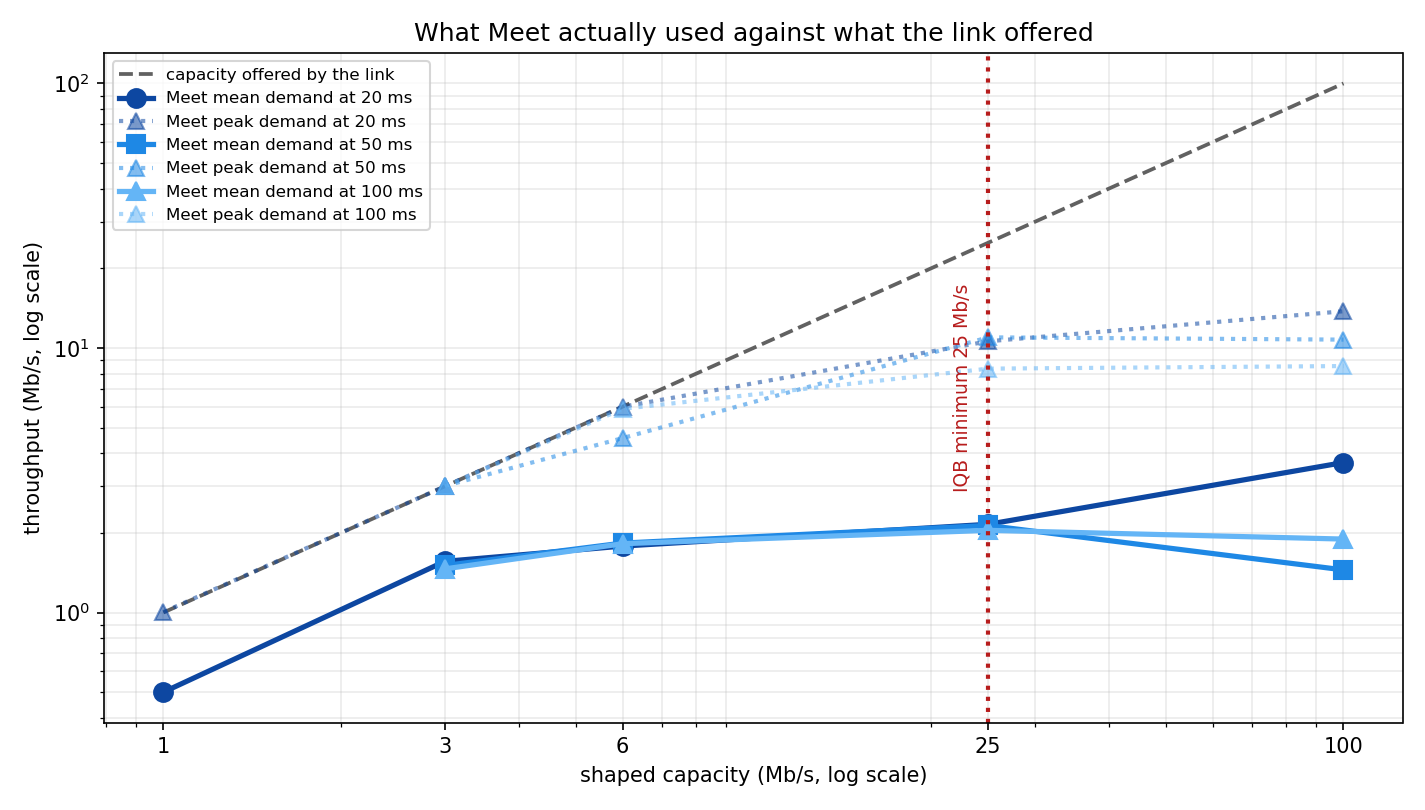
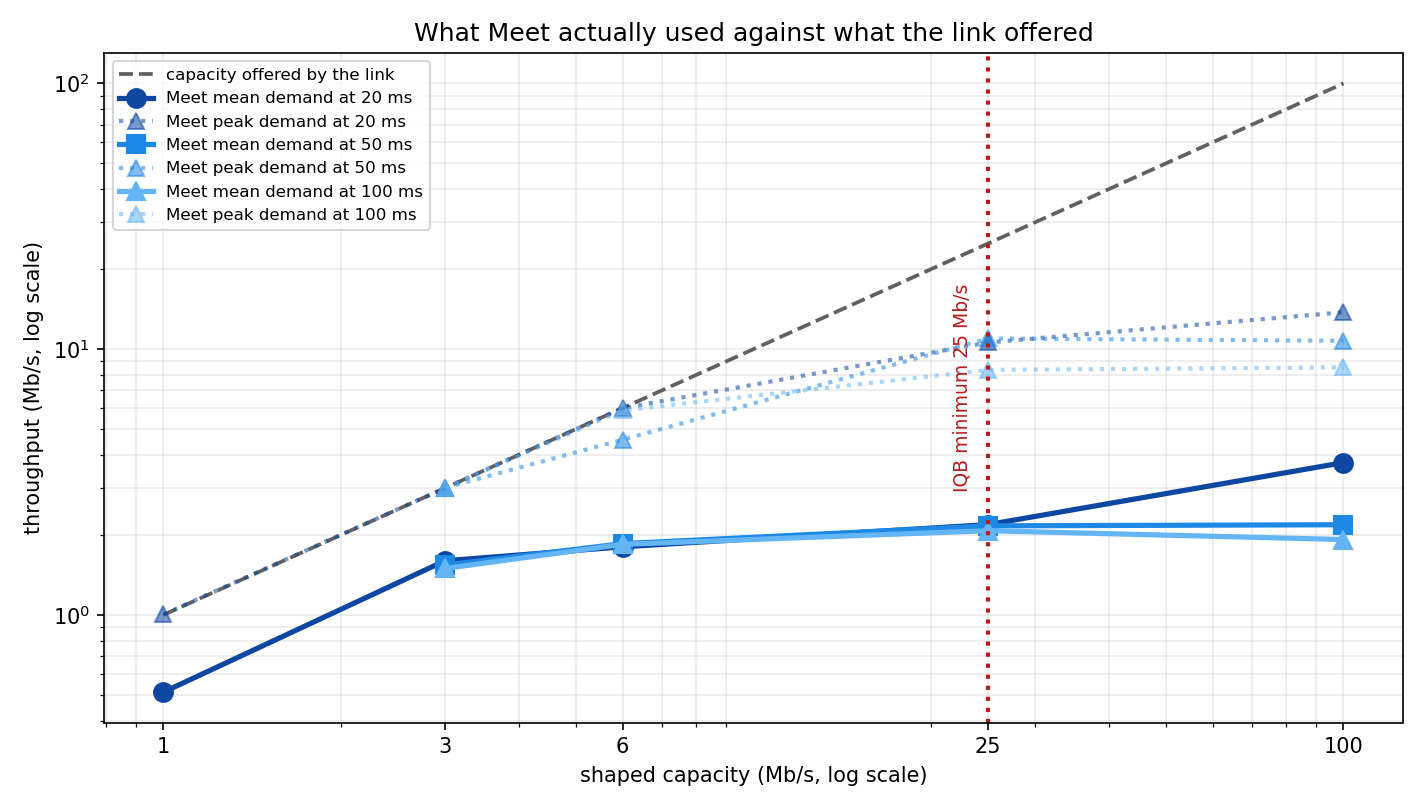
cpuc: republish demand over the sustained window, with infra_share_pct
Demand was computed over the whole capture window, which starts before the
page does, so the app's bytes were divided by time in which the app did not
exist. It is now the app's own bytes over the window in which the app was
actually moving data -- first app byte to last -- which drops the page-load
lead-in and any trailing silence while keeping the app's own mid-session
behaviour. A streaming player filling a buffer and going quiet IS its demand
and must not be edited out. Startup is untouched and still measured from page
load.

The figures are also re-derived with the GGC media attribution fixed (#25),
which is where the large corrections come from. Run selection is deliberately
unchanged: every key keeps the run the sidecar already named, so these rows
still describe the same runs and only the computation moved.

Streaming, worst corrections (old -> new Mb/s):

  25 Mb/s @ 100 ms   0.514 -> 2.405   4.68x
  12.5    @ 100 ms   0.494 -> 2.319   4.69x
  6.25    @ 100 ms   0.461 -> 2.225   4.83x
  3       @ 100 ms   0.391 -> 1.490   3.81x
  1.5     @  50 ms   0.350 -> 1.159   3.31x

Rows that were not GGC-affected move 1-3%, which is the window change alone.
Meet barely moves (1-3%, one row 1.51x), consistent with its rr5 traffic
sitting below the 2 MB media floor.

Every published figure now carries infra_share_pct: how much of the shaped
link was NOT the app's over the same window. Without it a 2.3 Mb/s figure
[…]

diff --git a/experiments/cpuc/report_meet.py b/experiments/cpuc/report_meet.py
@@ -253,6 +253,12 @@ def build_table(rows):
         if t["app_valid"]:
             t["meet_demand_mbps"] = d.get("meet_avg_mbps")
             t["meet_peak_mbps"] = d.get("meet_peak_mbps")
+            # How much of the shaped link was NOT Meet's, over the same
+            # window. This is the whole asset-cost finding in one column: the
+            # page's own assets are a near-constant cost per run, so the share
+            # they take grows as the link shrinks, and at 0.5-1 Mb/s it rivals
+            # the call itself. A demand figure without it is not interpretable.
+            t["infra_share_pct"] = d.get("infra_share_pct")
         else:
             # A run that never established remote media still moved some
             # bytes while it tried to join. Reporting those bytes as "what
@@ -261,6 +267,7 @@ def build_table(rows):
             # the QoE is not collected, neither is the demand.
             t["meet_demand_mbps"] = None
             t["meet_peak_mbps"] = None
+            t["infra_share_pct"] = d.get("infra_share_pct")
             # "Not collected" and "we ran it and no video ever arrived" are
             # different claims, and only the second one is evidence about the
             # link. A run that reached NoRemoteInboundMedia on every attempt
@@ -327,8 +334,9 @@ def latency_caption(table) -> str:
 def markdown_table(t):
     hdr = (
         "| capacity (sym) | RTT set | RTT measured | NDT down | NDT up "
-        "| IQB verdict | resolution | fps | freezes | Meet demand | QoE |\n"
-        "|---|---|---|---|---|---|---|---|---|---|---|\n"
+        "| IQB verdict | resolution | fps | freezes | Meet demand | infra share "
+        "| QoE |\n"
+        "|---|---|---|---|---|---|---|---|---|---|---|---|\n"
     )
     lines = []
     for r in t:
@@ -336,7 +344,7 @@ def markdown_table(t):
         sus = " ⚠" if r["suspect"] else ""
         lines.append(
             "| {c:g} Mb/s{tag} | {rset} | {rmeas} | {dl} | {ul} | {v} ({by}) "
-            "| {res} | {fps} | {fz} | {dem} | {q}{sus} |".format(
+            "| {res} | {fps} | {fz} | {dem} | {inf} | {q}{sus} |".format(
                 c=r["rate_mbps_symmetric"],
                 tag=tag,
                 rset=(
@@ -367,6 +375,11 @@ def markdown_table(t):
                 dem=(
                     f"{r['meet_demand_mbps']:.2f}"
                     if r.get("meet_demand_mbps") is not None
+                    else "—"
+                ),
+                inf=(
+                    f"{r['infra_share_pct']:.0f}%"
+                    if r.get("infra_share_pct") is not None
                     else "—"
                 ),
                 q=r["qoe_label"] or "—",

diff --git a/experiments/cpuc/results/meet_iqb_vs_qoe_table.md b/experiments/cpuc/results/meet_iqb_vs_qoe_table.md
@@ -1,23 +1,23 @@
-| capacity (sym) | RTT set | RTT measured | NDT down | NDT up | IQB verdict | resolution | fps | freezes | Meet demand | QoE |
-|---|---|---|---|---|---|---|---|---|---|---|
-| 100 Mb/s *(ref)* | 20 ms | 22.6 ms | 92.60 | 93.12 | meets minimum only (download) | 720p | 24.0 | 0 (0.00%) | 3.69 | high |
-| 100 Mb/s *(ref)* | 50 ms | 52.7 ms | 92.94 | 92.78 | fails minimum (latency) | 720p | 23.9 | 0 (0.00%) | 1.45 | high |
-| 100 Mb/s *(ref)* | 100 ms | 102.7 ms | 89.67 | 89.03 | fails minimum (latency) | 720p | 23.8 | 1 (0.34%) | 1.90 | high |
-| 25 Mb/s | 20 ms | 22.6 ms | 23.28 | 23.54 | fails minimum (upload) | 720p | 23.9 | 0 (0.00%) | 2.15 | high ⚠ |
-| 25 Mb/s | 50 ms | 52.6 ms | 22.92 | 23.31 | fails minimum (latency) | 720p | 24.0 | 1 (0.34%) | 2.13 | high ⚠ |
-| 25 Mb/s | 100 ms | 102.6 ms | 22.39 | 22.44 | fails minimum (latency) | 720p | 24.0 | 1 (0.34%) | 2.04 | high |
-| 6 Mb/s | 20 ms | 23.2 ms | 5.66 | 5.72 | fails minimum (download) | 720p | 23.0 | 0 (0.00%) | 1.78 | high ⚠ |
-| 6 Mb/s | 50 ms | 52.9 ms | 5.60 | 5.67 | fails minimum (download) | 720p | 24.0 | 1 (0.38%) | 1.83 | high ⚠ |
-| 6 Mb/s | 100 ms | 102.7 ms | 5.55 | 5.52 | fails minimum (download) | 720p | 23.9 | 0 (0.00%) | 1.82 | high ⚠ |
-| 3 Mb/s | 20 ms | 22.9 ms | 2.85 | 2.86 | fails minimum (download) | 720p | 22.7 | 2 (0.70%) | 1.56 | high ⚠ |
-| 3 Mb/s | 50 ms | 52.9 ms | 2.82 | 2.84 | fails minimum (download) | 720p | 22.1 | 1 (4.77%) | 1.51 | acceptable ⚠ |
-| 3 Mb/s | 100 ms | 103.1 ms | 2.80 | 2.79 | fails minimum (download) | 720p | 19.6 | 0 (0.00%) | 1.46 | acceptable ⚠ |
-| 1 Mb/s | 20 ms | 23.0 ms | 0.96 | 0.96 | fails minimum (download) | 360p | 19.9 | 8 (17.95%) | 0.50 | unusable ⚠ |
-| 1 Mb/s | 50 ms | 53.0 ms | 0.95 | 0.95 | fails minimum (download) | — | — | — | — | no remote media |
-| 1 Mb/s | 100 ms | 103.2 ms | 0.94 | 0.95 | fails minimum (download) | — | — | — | — | no remote media (confounded) |
-| 0.5 Mb/s | 20 ms | 22.9 ms | 0.48 | 0.48 | fails minimum (download) | — | — | — | — | no remote media |
-| 0.5 Mb/s | 50 ms | 53.3 ms | 0.48 | 0.48 | fails minimum (download) | — | — | — | — | no remote media |
-| 0.5 Mb/s | 100 ms | 103.2 ms | 0.48 | 0.48 | fails minimum (download) | — | — | — | — | no remote media (confounded) |
+| capacity (sym) | RTT set | RTT measured | NDT down | NDT up | IQB verdict | resolution | fps | freezes | Meet demand | infra share | QoE |
+|---|---|---|---|---|---|---|---|---|---|---|---|
+| 100 Mb/s *(ref)* | 20 ms | 22.6 ms | 92.60 | 93.12 | meets minimum only (download) | 720p | 24.0 | 0 (0.00%) | 3.74 | 12% | high |
+| 100 Mb/s *(ref)* | 50 ms | 52.7 ms | 92.94 | 92.78 | fails minimum (latency) | 720p | 23.9 | 0 (0.00%) | 2.18 | 23% | high |
+| 100 Mb/s *(ref)* | 100 ms | 102.7 ms | 89.67 | 89.03 | fails minimum (latency) | 720p | 23.8 | 1 (0.34%) | 1.92 | 20% | high |
+| 25 Mb/s | 20 ms | 22.6 ms | 23.28 | 23.54 | fails minimum (upload) | 720p | 23.9 | 0 (0.00%) | 2.19 | 23% | high ⚠ |
+| 25 Mb/s | 50 ms | 52.6 ms | 22.92 | 23.31 | fails minimum (latency) | 720p | 24.0 | 1 (0.34%) | 2.16 | 23% | high ⚠ |
+| 25 Mb/s | 100 ms | 102.6 ms | 22.39 | 22.44 | fails minimum (latency) | 720p | 24.0 | 1 (0.34%) | 2.07 | 19% | high |
+| 6 Mb/s | 20 ms | 23.2 ms | 5.66 | 5.72 | fails minimum (download) | 720p | 23.0 | 0 (0.00%) | 1.80 | 24% | high ⚠ |
+| 6 Mb/s | 50 ms | 52.9 ms | 5.60 | 5.67 | fails minimum (download) | 720p | 24.0 | 1 (0.38%) | 1.85 | 24% | high ⚠ |
+| 6 Mb/s | 100 ms | 102.7 ms | 5.55 | 5.52 | fails minimum (download) | 720p | 23.9 | 0 (0.00%) | 1.84 | 20% | high ⚠ |
+| 3 Mb/s | 20 ms | 22.9 ms | 2.85 | 2.86 | fails minimum (download) | 720p | 22.7 | 2 (0.70%) | 1.60 | 21% | high ⚠ |
+| 3 Mb/s | 50 ms | 52.9 ms | 2.82 | 2.84 | fails minimum (download) | 720p | 22.1 | 1 (4.77%) | 1.54 | 25% | acceptable ⚠ |
+| 3 Mb/s | 100 ms | 103.1 ms | 2.80 | 2.79 | fails minimum (download) | 720p | 19.6 | 0 (0.00%) | 1.50 | 26% | acceptable ⚠ |
+| 1 Mb/s | 20 ms | 23.0 ms | 0.96 | 0.96 | fails minimum (download) | 360p | 19.9 | 8 (17.95%) | 0.51 | 38% | unusable ⚠ |
+| 1 Mb/s | 50 ms | 53.0 ms | 0.95 | 0.95 | fails minimum (download) | — | — | — | — | 54% | no remote media |
+| 1 Mb/s | 100 ms | 103.2 ms | 0.94 | 0.95 | fails minimum (download) | — | — | — | — | — | no remote media (confounded) |
+| 0.5 Mb/s | 20 ms | 22.9 ms | 0.48 | 0.48 | fails minimum (download) | — | — | — | — | 43% | no remote media |
+| 0.5 Mb/s | 50 ms | 53.3 ms | 0.48 | 0.48 | fails minimum (download) | — | — | — | — | 56% | no remote media |
+| 0.5 Mb/s | 100 ms | 103.2 ms | 0.48 | 0.48 | fails minimum (download) | — | — | — | — | — | no remote media (confounded) |
 
 *(ref)* is the reference run, graded against itself: its resolution and fps are 100% of their own, but the freeze test is absolute, so the label is earned rather than granted.
 
